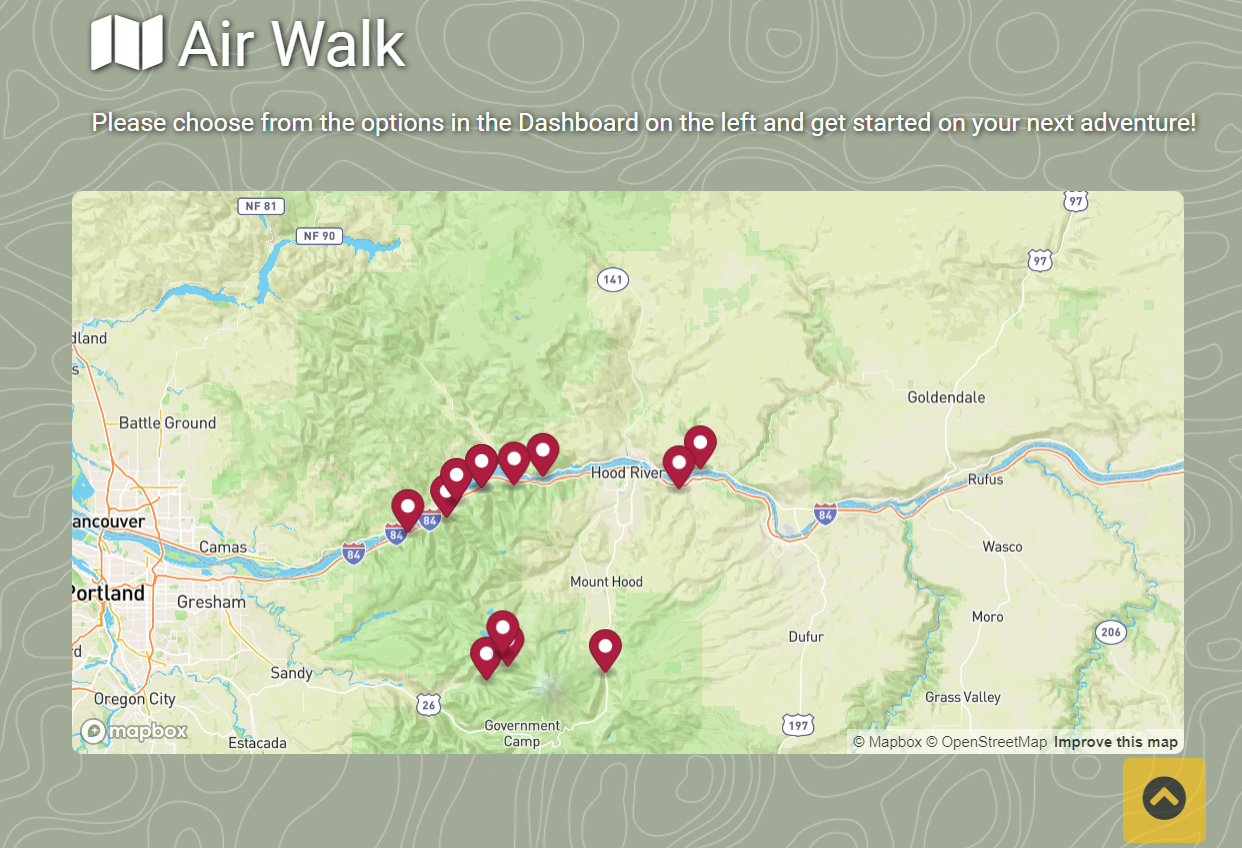
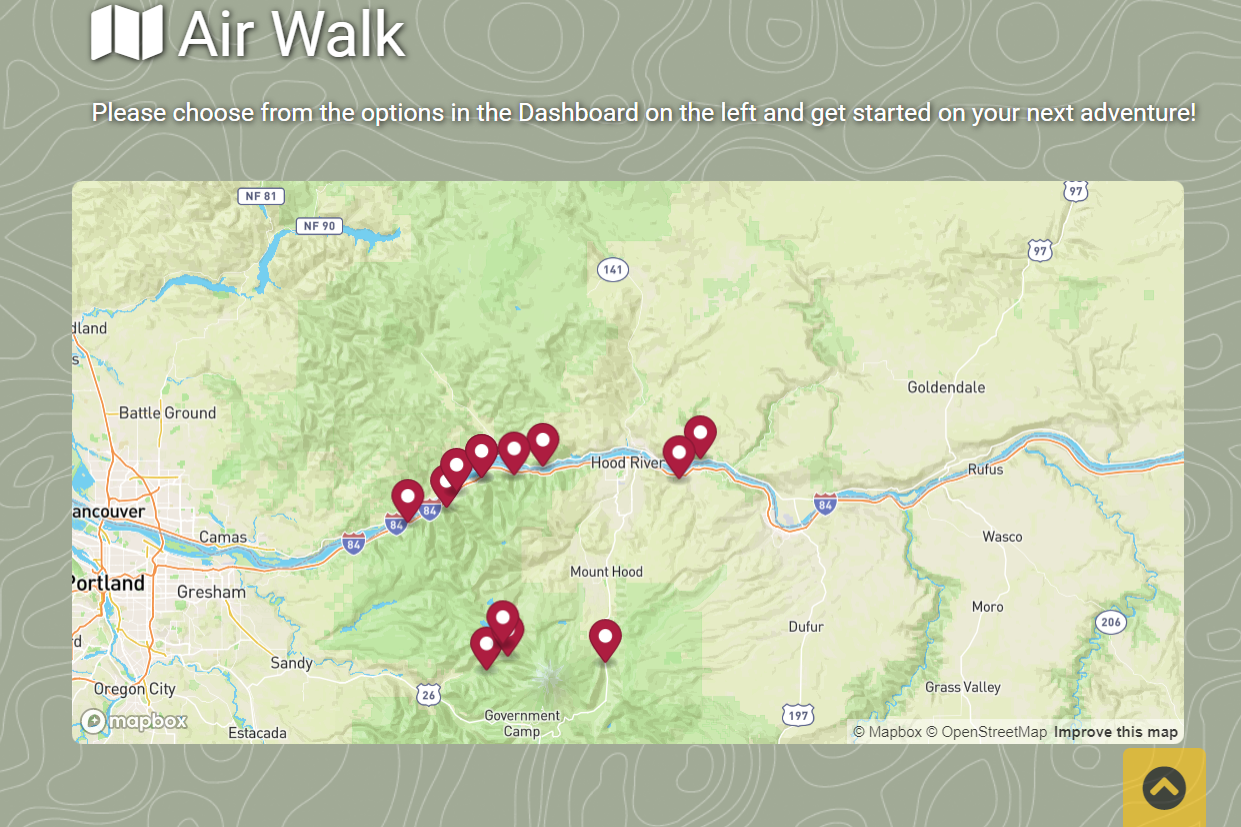
screenshots of deloyed applications added to portfolio page

diff --git a/portfolio.html b/portfolio.html
@@ -42,7 +42,7 @@
                 <div class="row">
                     <section class="col-lg-6 col-md-6 col-sm-12">
                         <figure class="img_container">
-                                <img src="Assets_Images/pic_1.jpg" alt="SCreenshot of AirWalk application home page with a map" class="portfolio-thumbnail">
+                                <img src="Assets_Images/airwalk.PNG" alt="SCreenshot of AirWalk application home page with a map" class="portfolio-thumbnail">
                                 <figcaption class="text-block">
                                     <a class="portfolio" href="https://mx6.github.io/Bootcamp_Project_1/" target="_blank"> <h4>AirWalk</h4> </a>
                                     <a class="portfolio" href="https://mx6.github.io/Bootcamp_Project_1/" target="_blank"> Check out the code!</a>
@@ -52,7 +52,7 @@
                     
                     <section class="col-lg-6 col-md-6 col-sm-12">
                         <figure class="img_container"> 
-                                <img src="Assets_Images/pic_2.jpg" alt="screenshot of Daily Planner example" class="portfolio-thumbnail">
+                                <img src="Assets_Images/planner.PNG" alt="screenshot of Daily Planner example" class="portfolio-thumbnail">
                                 <figcaption class="text-block">
                                     <a class="portfolio" href="https://miadehaan.github.io/Daily_Planner/" target="_blank"> <h4>Daily Planner</h4> </a>
                                     <a class="portfolio" href="https://github.com/miadehaan/Daily_Planner" target="_blank"> Check out the code!</a>
@@ -62,7 +62,7 @@
 
                     <section class="col-lg-6 col-md-6 col-sm-12">
                         <figure class="img_container">    
-                                <img src="Assets_Images/pic_3.jpg" alt="Screenshot of Weather Dashboard Application" class="portfolio-thumbnail">
+                                <img src="Assets_Images/weatherDash.PNG" alt="Screenshot of Weather Dashboard Application" class="portfolio-thumbnail">
                                 <figcaption class="text-block">
                                     <a class="portfolio" href="https://miadehaan.github.io/Weather_Dashboard/" target="_blank"> <h4>Weather Dashboard</h4> </a>
                                     <a class="portfolio" href="https://github.com/miadehaan/Weather_Dashboard" target="_blank"> Check out the code!</a>
@@ -72,7 +72,7 @@
 
                     <section class="col-lg-6 col-md-6 col-sm-12">
                         <figure class="img_container">    
-                                <img src="Assets_Images/pic_4.jpg" alt="puppy quiz" class="portfolio-thumbnail">                            
+                                <img src="Assets_Images/puppyQuiz.PNG" alt="puppy quiz" class="portfolio-thumbnail">                            
                                 <figcaption class="text-block">
                                     <a class="portfolio" href="https://miadehaan.github.io/Puppy_Interactive_Quiz/" target="_blank"> <h4>Fun Quiz</h4> </a>
                                     <a class="portfolio" href="https://github.com/miadehaan/Daily_Planner" target="_blank"> Check out the code!</a>

diff --git a/Assets_Images/style.css b/Assets_Images/style.css
@@ -83,6 +83,7 @@ h2 {
     width: 100%;
     height: auto;
     border-radius: 8px;
+    border: 0.5px solid rgb(173, 173, 173);
 }
 
 .img_container {
